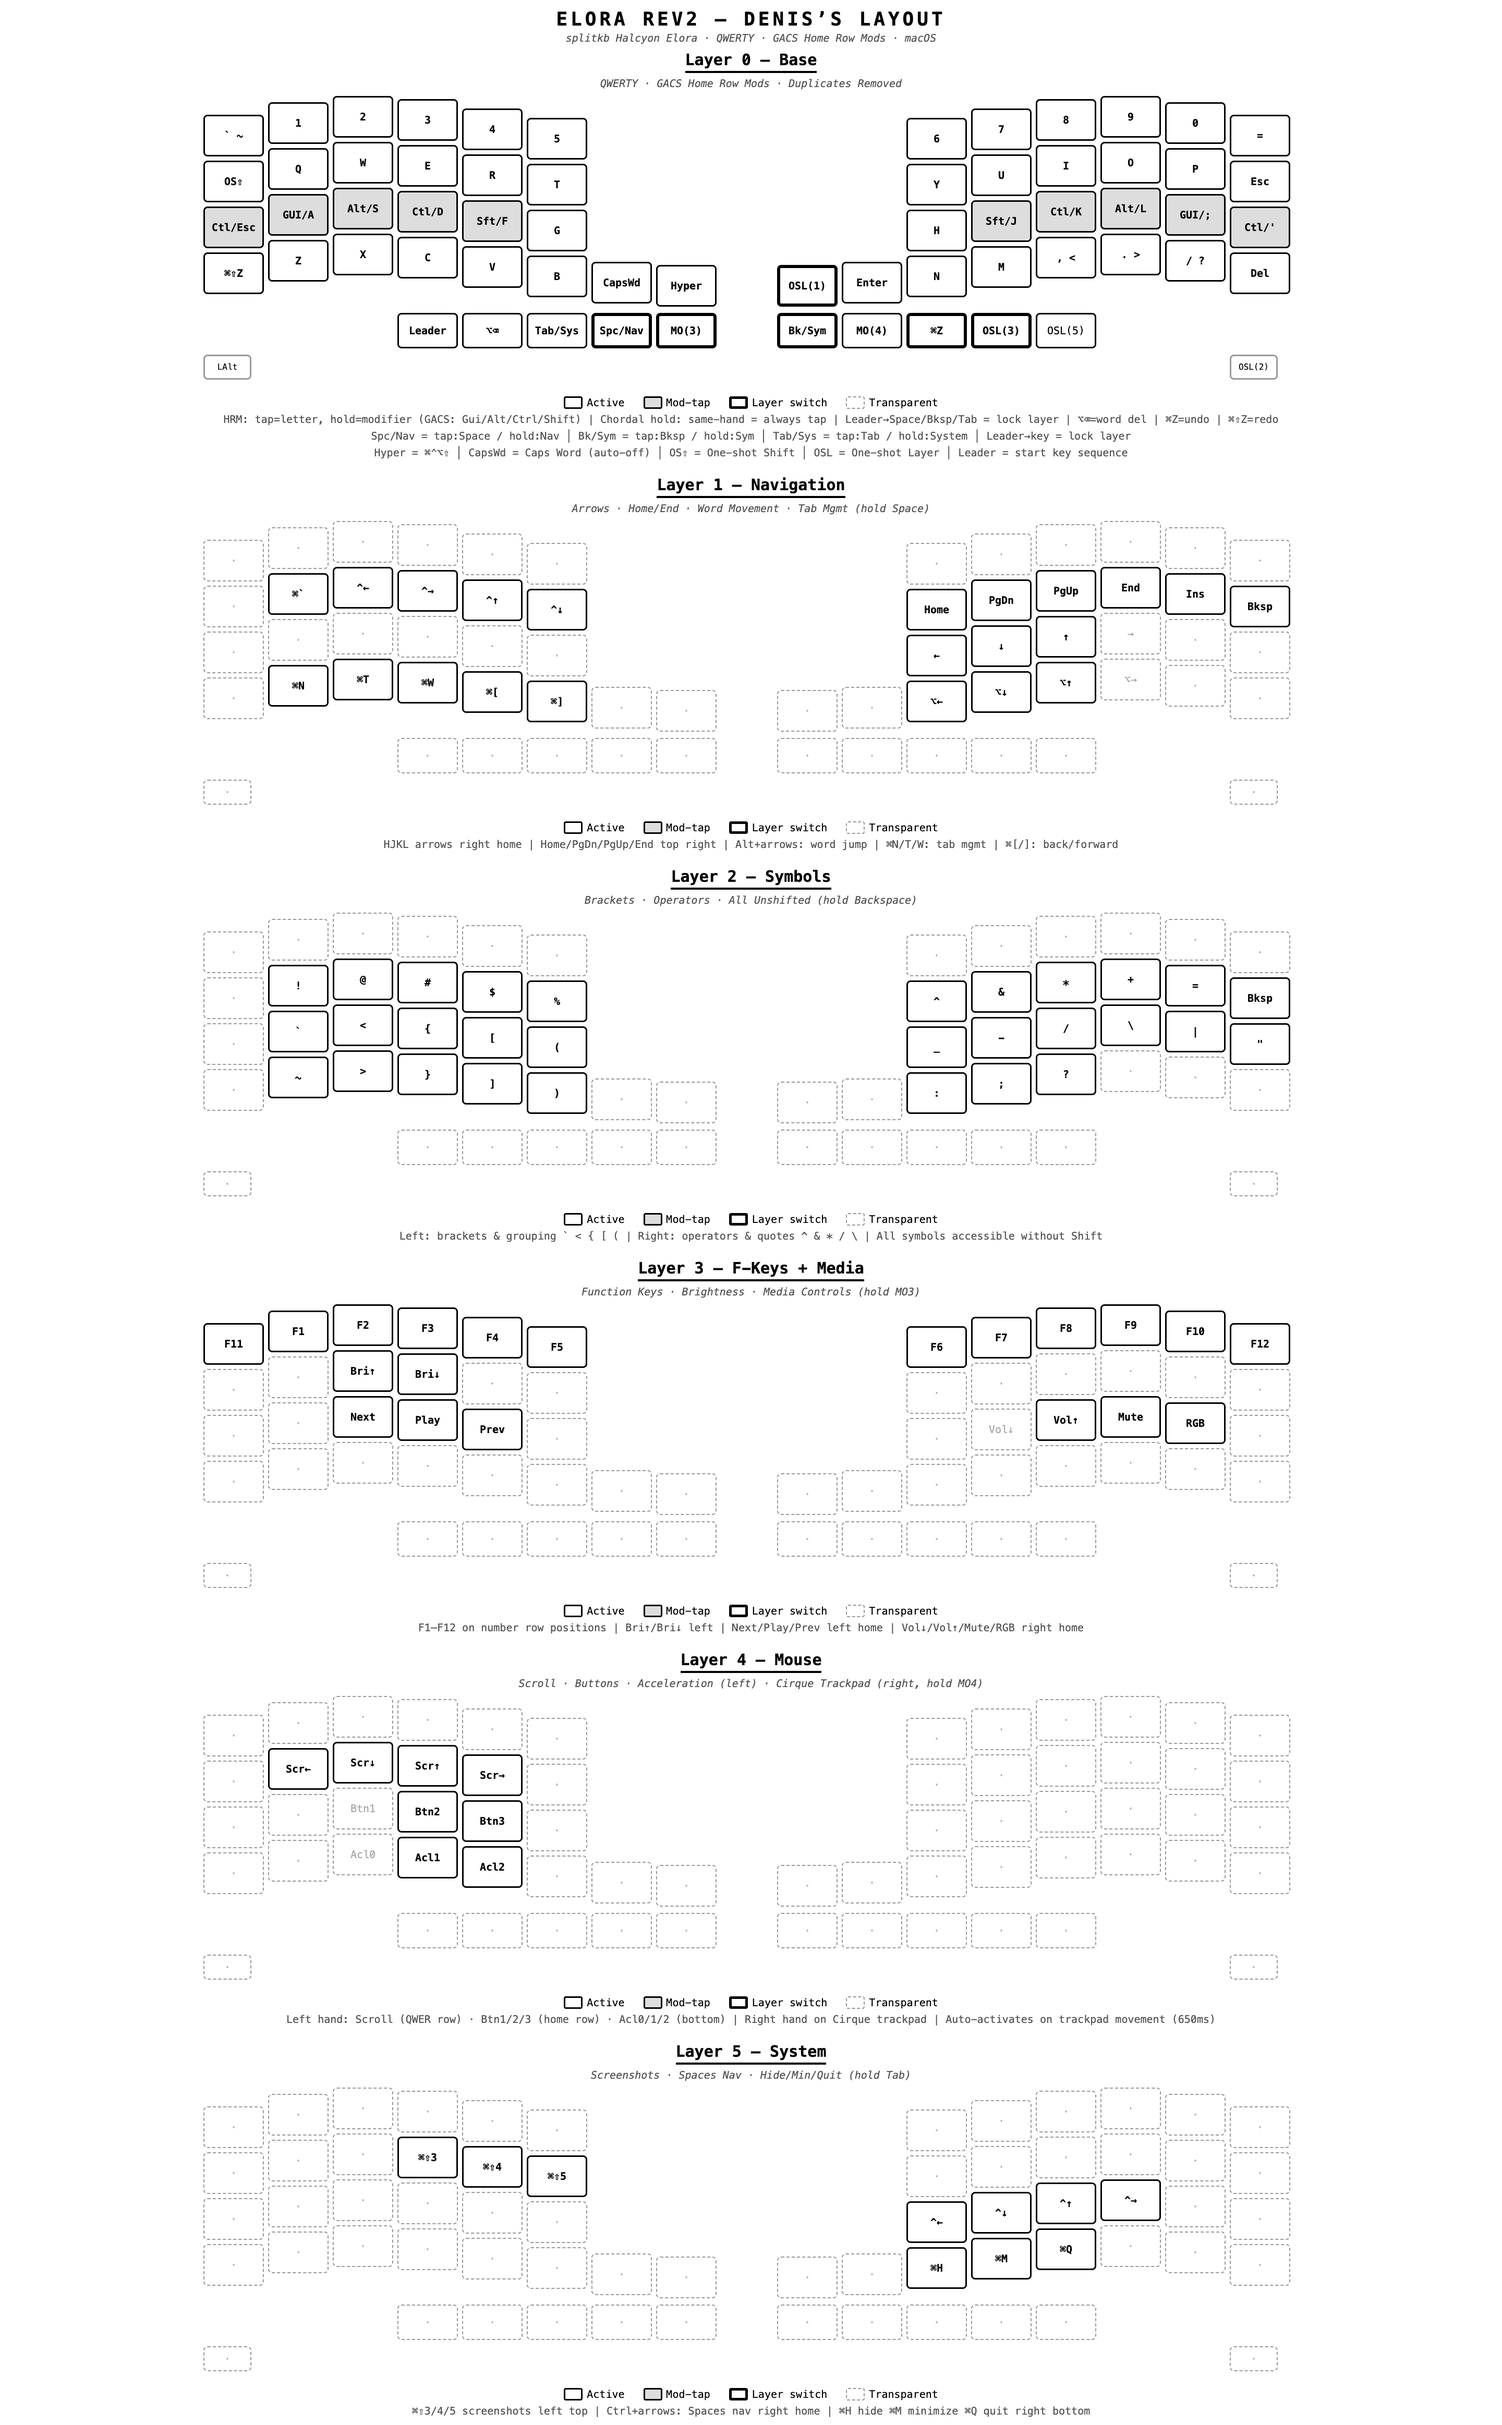
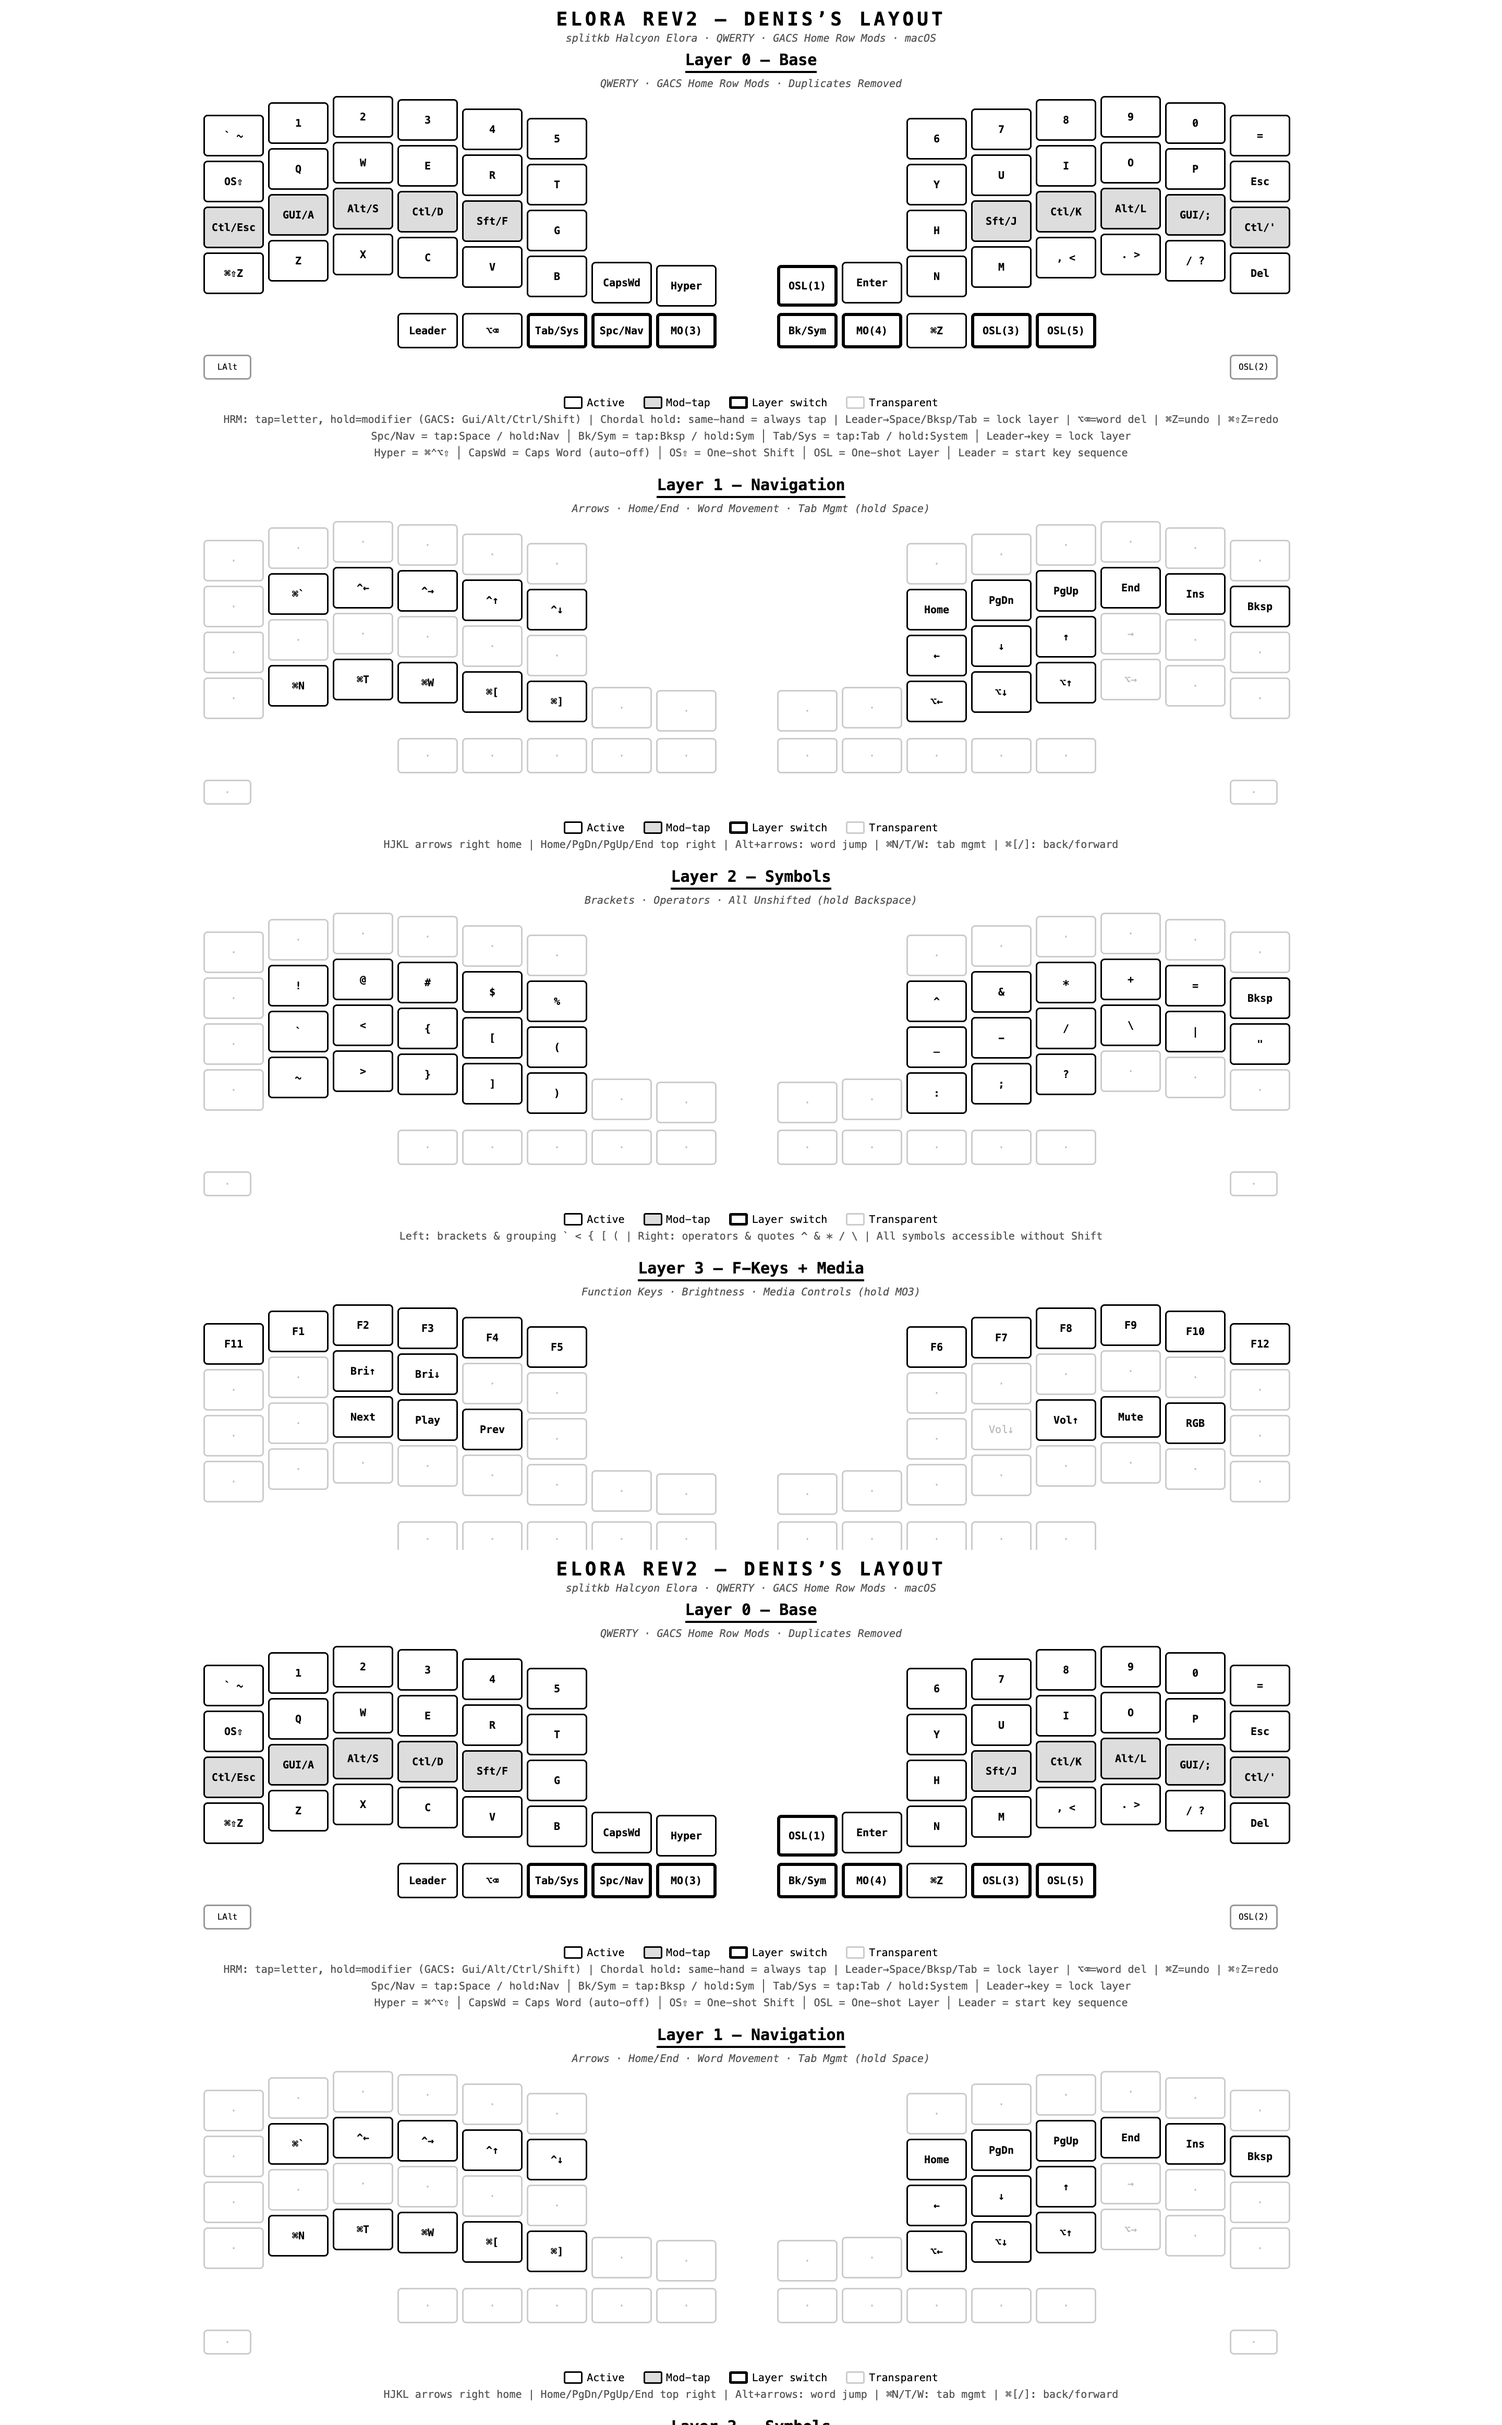
fix: reduce HRM Cmd misfires during fast typing

diff --git a/elora-layouts.html b/elora-layouts.html
@@ -25,7 +25,7 @@
   .k.a { font-weight: 600; }
   .k.m { background: #ddd; font-weight: 600; }
   .k.l { border-width: 3px; font-weight: 700; }
-  .k.t { border: 1px dashed #999; color: #aaa; font-weight: 400; }
+  .k.t { border: 1.5px solid #ccc; color: #bbb; font-weight: 400; }
   .k.e { font-size: 8px; border-color: #999; }
   .legend { display: flex; justify-content: center; gap: 18px; margin-top: 8px; font-size: 10px; flex-wrap: wrap; }
   .legend span { display: inline-flex; align-items: center; gap: 4px; }
@@ -70,10 +70,10 @@ var L=[
 {n:"Layer 0 \u2014 Base",d:"QWERTY \u00b7 GACS Home Row Mods \u00b7 Duplicates Removed",
  l:["` ~","1","2","3","4","5","OS\u21e7","Q","W","E","R","T","Ctl/Esc","GUI/A","Alt/S","Ctl/D","Sft/F","G","\u2318\u21e7Z","Z","X","C","V","B",
     "CapsWd","Hyper","Leader","\u2325\u232b","Tab/Sys","Spc/Nav","MO(3)","LAlt"],
- lt:"aaaaaaaaaaaammmmmaaaaaaaaaaaalll",
+ lt:"aaaaaaaaaaaammmmmaaaaaaaaaaallll",
  r:["6","7","8","9","0","=","Y","U","I","O","P","Esc","H","Sft/J","Ctl/K","Alt/L","GUI/;","Ctl/'","N","M",", <",". >","/ ?","Del",
     "OSL(1)","Enter","Bk/Sym","MO(4)","\u2318Z","OSL(3)","OSL(5)","OSL(2)"],
- rt:"aaaaaaaaaaaaammmmmaaaaaalalall",
+ rt:"aaaaaaaaaaaaammmmmaaaaaalallalll",
  info:"HRM: tap=letter, hold=modifier (GACS: Gui/Alt/Ctrl/Shift) | Chordal hold: same-hand = always tap | Leader\u2192Space/Bksp/Tab = lock layer | \u2325\u232b=word del | \u2318Z=undo | \u2318\u21e7Z=redo"},
 
 {n:"Layer 1 \u2014 Navigation",d:"Arrows \u00b7 Home/End \u00b7 Word Movement \u00b7 Tab Mgmt (hold Space)",
@@ -144,7 +144,7 @@ function mkLegend(par){
     ['1.5px solid #000','#fff','Active'],
     ['1.5px solid #000','#ddd','Mod-tap'],
     ['2.5px solid #000','#fff','Layer switch'],
-    ['1px dashed #999','#fff','Transparent']
+    ['1.5px solid #ccc','#fff','Transparent']
   ];
   items.forEach(function(it){
     var sp=document.createElement('span');

diff --git a/firmware/keyboards/splitkb/halcyon/elora/keymaps/denis/keymap.c b/firmware/keyboards/splitkb/halcyon/elora/keymaps/denis/keymap.c
@@ -484,13 +484,14 @@ report_mouse_t pointing_device_task_user(report_mouse_t mouse_report) {
 uint16_t get_tapping_term(uint16_t keycode, keyrecord_t *record) {
     switch (keycode) {
         case LGUI_T(KC_A):
+        case RGUI_T(KC_SCLN):
+            return 220;
         case LALT_T(KC_S):
         case LCTL_T(KC_D):
         case LSFT_T(KC_F):
         case RSFT_T(KC_J):
         case RCTL_T(KC_K):
         case RALT_T(KC_L):
-        case RGUI_T(KC_SCLN):
             return 190;
         case LCTL_T(KC_ESC):
         case RCTL_T(KC_QUOT):

diff --git a/firmware/keyboards/splitkb/halcyon/elora/keymaps/denis/config.h b/firmware/keyboards/splitkb/halcyon/elora/keymaps/denis/config.h
@@ -18,9 +18,6 @@
 // A(GUI) + S are both left hand = always taps.
 #define CHORDAL_HOLD
 
-// With chordal hold, use permissive hold for
-// opposite-hand cases (hold A, tap J = GUI+J)
-#define PERMISSIVE_HOLD
 
 // --- Mouse keys tuning (software emulation, kept as fallback) ---
 #define MK_3_SPEED

diff --git a/README.md b/README.md
@@ -68,7 +68,7 @@ Shows from top to bottom:
 6. **RGB** — shown when per-key backlight is enabled
 
 ## Layout
-<img width="2880" height="4650" alt="layout-full" src="https://github.com/user-attachments/assets/38a9a27b-188a-4f46-b9a3-ff297d655e7e" />
+<img width="1440" height="2325" alt="layout-full" src="layout-full.png" />
 
 ### Layer 0 — Base (QWERTY + Home Row Mods)
 
